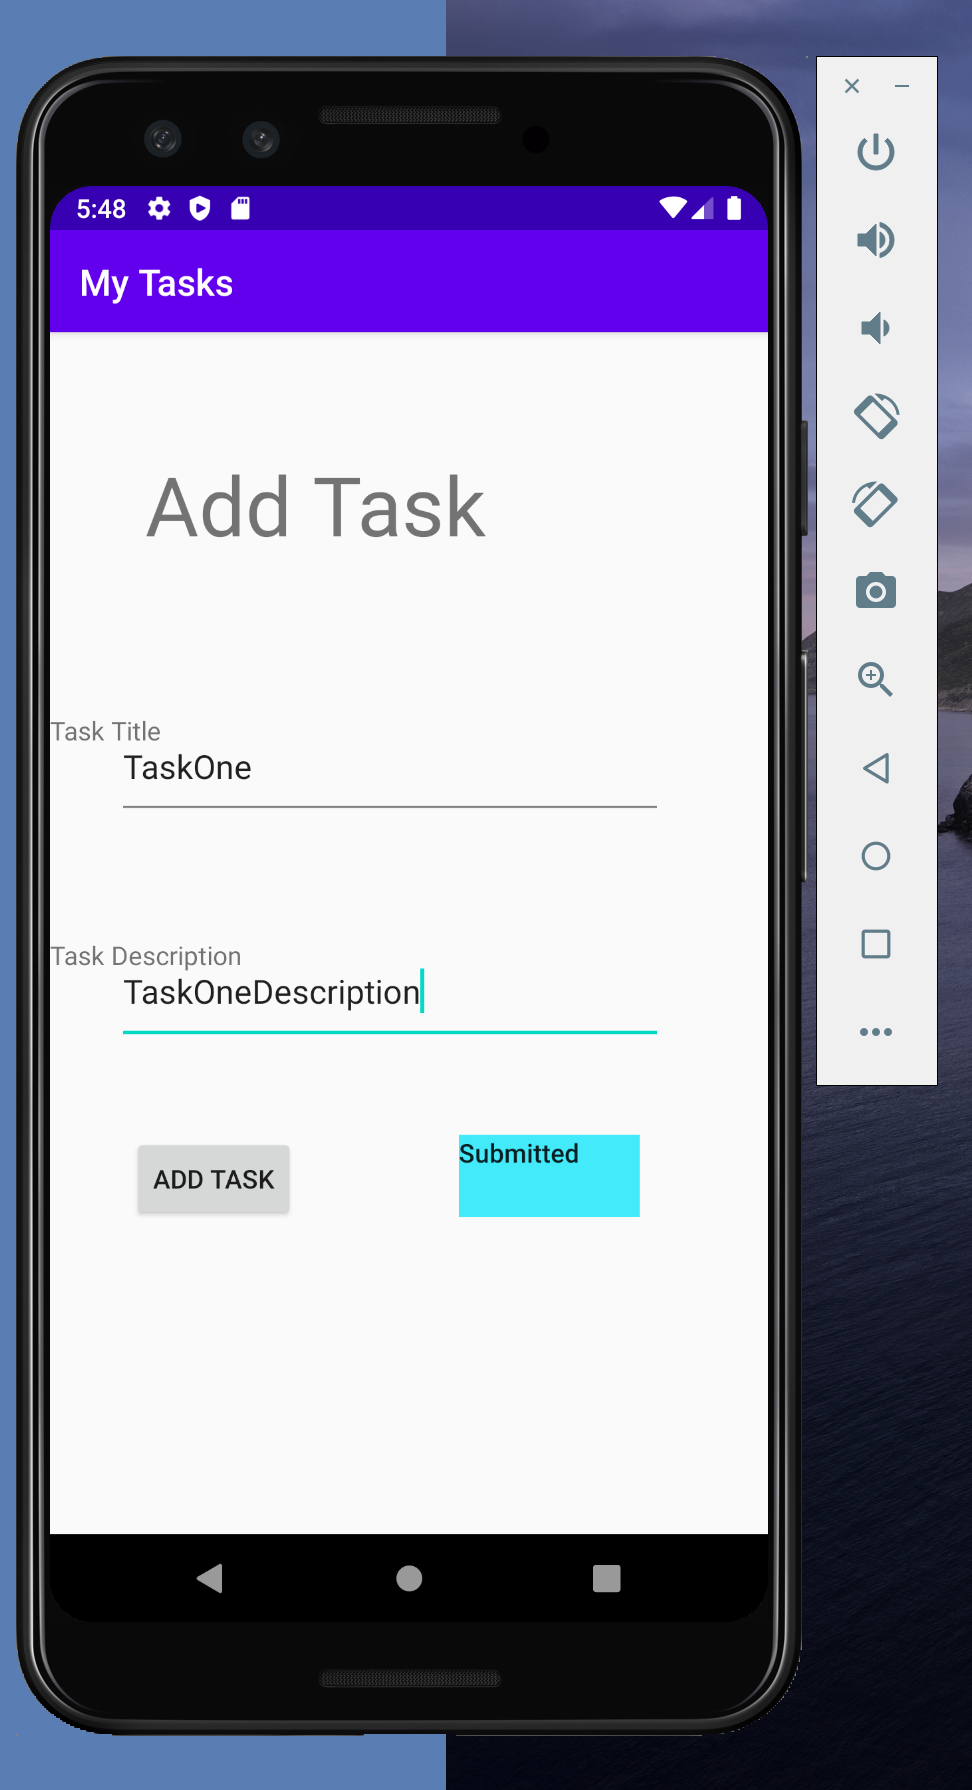
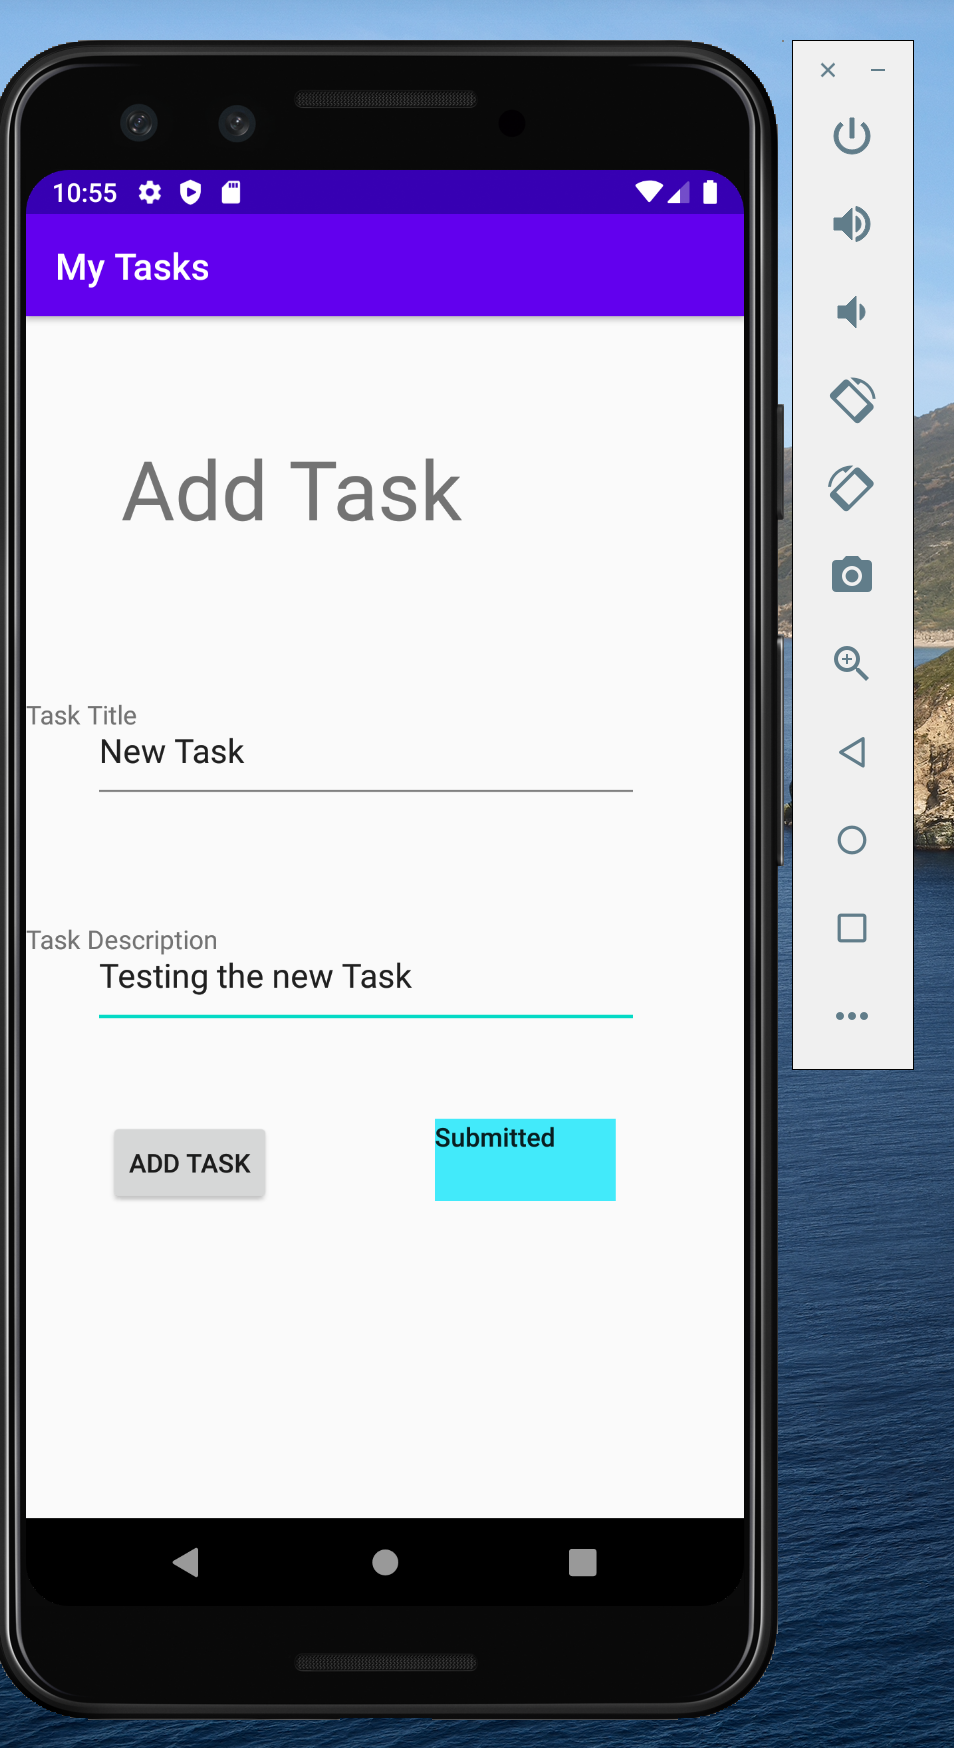
added screenshots to the readme

diff --git a/README.md b/README.md
@@ -1,5 +1,5 @@
 # My Tasks APP
-v0.1
+v0.3
 
 ## How to run the app
 * Clone the repository from the git hub projects
@@ -14,8 +14,7 @@ v0.1
 * Run the app using an emulator or on the android phone
 
 ## Here are images of the app 
----------------------------------
-#### v0.2 
+--------------------------------- 
 Home Screen:
 * ![Settings Screen](screenshots/ActivitySetting.png ) 
 
@@ -29,8 +28,11 @@ All Tasks:
 Add Task:  
 * ![Add Task](screenshots/ActivityAddTask_enter.png)  
 
-Add Test Task and print it:
-* ![Add Task and print it](screenshots/ActivityAddTask_Sout.png)  
+Add Test Task and show in database:
+* ![Add Task in database](screenshots/Database_submitted.png)
+
+<!-- Add Test Task and print it:
+* ![Add Task and print it](screenshots/ActivityAddTask_Sout.png)   -->
 
 Show that it is submitted:
 * ![Add Task and show submission](screenshots/ActivityAddTask_Submitted.png)
